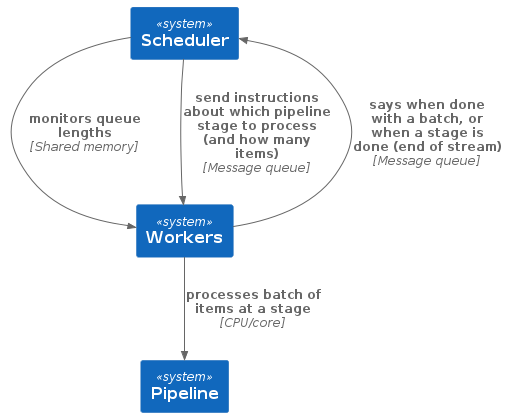
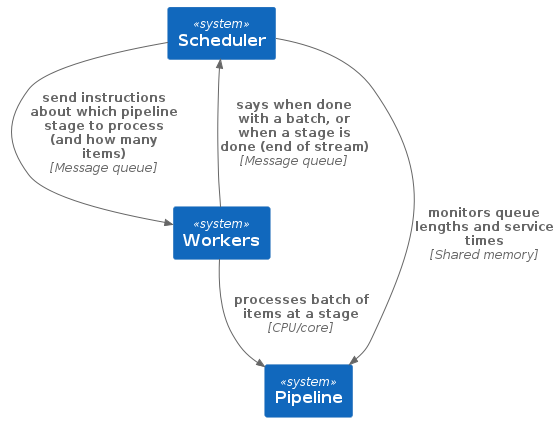
Fix mistake in c4 model

diff --git a/README-unprocessed.md b/README-unprocessed.md
@@ -66,7 +66,7 @@ For reasons not entirely clear to me, it hasn't seem to have taken off yet, but
 there are proponents of this idea.
 
 Jim Gray talked about software pipeline parallelism and partitioning in his
-Turing award [interview]](https://www.youtube.com/watch?v=U3eo49nVxcA&t=1949s).
+Turing award [interview](https://www.youtube.com/watch?v=U3eo49nVxcA&t=1949s).
 
 [Dataflow languages](https://en.wikipedia.org/wiki/Dataflow_programming) in
 general and Paul Morrison’s [flow-based
@@ -78,9 +78,10 @@ pattern is also based on pipelining parallelism and supports, what Jim calls,
 partition parallelism. One of the sources that the Disruptor paper mentions is
 [SEDA](https://people.eecs.berkeley.edu/~brewer/papers/SEDA-sosp.pdf).
 
-More recently, as I was digging into more of Jim's work, I discovered that
-database engines also implement something akin to pipeline parallelism. One of
-the most advanced examples of this is Umbra's
+More recently, as I was digging into more of Jim's
+[work](https://jimgray.azurewebsites.net/papers/CacmParallelDB.pdf), I
+discovered that database engines also implement something akin to pipeline
+parallelism. One of the most advanced examples of this is Umbra's
 [morsels](https://db.in.tum.de/~leis/papers/morsels.pdf).
 
 These are the examples of software pipeline parallelism that inspired me to
@@ -109,7 +110,11 @@ here we'll take a more global approach.
 
 ## Big picture
 
+The system consists of three parts: the pipeline, the workers and the scheduler:
+
 <img src="https://raw.githubusercontent.com/stevana/scheduled-pipelines/main/images/system-context.png">
+
+
 
 <img src="https://raw.githubusercontent.com/stevana/scheduled-pipelines/main/images/container-pipeline.png">
 

diff --git a/README.md b/README.md
@@ -73,7 +73,7 @@ yet, but there are proponents of this idea.
 
 Jim Gray talked about software pipeline parallelism and partitioning in
 his Turing award
-\[interview\]\](<https://www.youtube.com/watch?v=U3eo49nVxcA&t=1949s>).
+[interview](https://www.youtube.com/watch?v=U3eo49nVxcA&t=1949s).
 
 [Dataflow languages](https://en.wikipedia.org/wiki/Dataflow_programming)
 in general and Paul Morrison’s [flow-based
@@ -87,10 +87,11 @@ calls, partition parallelism. One of the sources that the Disruptor
 paper mentions is
 [SEDA](https://people.eecs.berkeley.edu/~brewer/papers/SEDA-sosp.pdf).
 
-More recently, as I was digging into more of Jim's work, I discovered
-that database engines also implement something akin to pipeline
-parallelism. One of the most advanced examples of this is Umbra's
-[morsels](https://db.in.tum.de/~leis/papers/morsels.pdf).
+More recently, as I was digging into more of Jim's
+[work](https://jimgray.azurewebsites.net/papers/CacmParallelDB.pdf), I
+discovered that database engines also implement something akin to
+pipeline parallelism. One of the most advanced examples of this is
+Umbra's [morsels](https://db.in.tum.de/~leis/papers/morsels.pdf).
 
 These are the examples of software pipeline parallelism that inspired me
 to start thinking about it.
@@ -118,6 +119,9 @@ I've also written about elastically scaling a single stage up and down
 but here we'll take a more global approach.
 
 ## Big picture
+
+The system consists of three parts: the pipeline, the workers and the
+scheduler:
 
 <img src="https://raw.githubusercontent.com/stevana/scheduled-pipelines/main/images/system-context.png">
 
